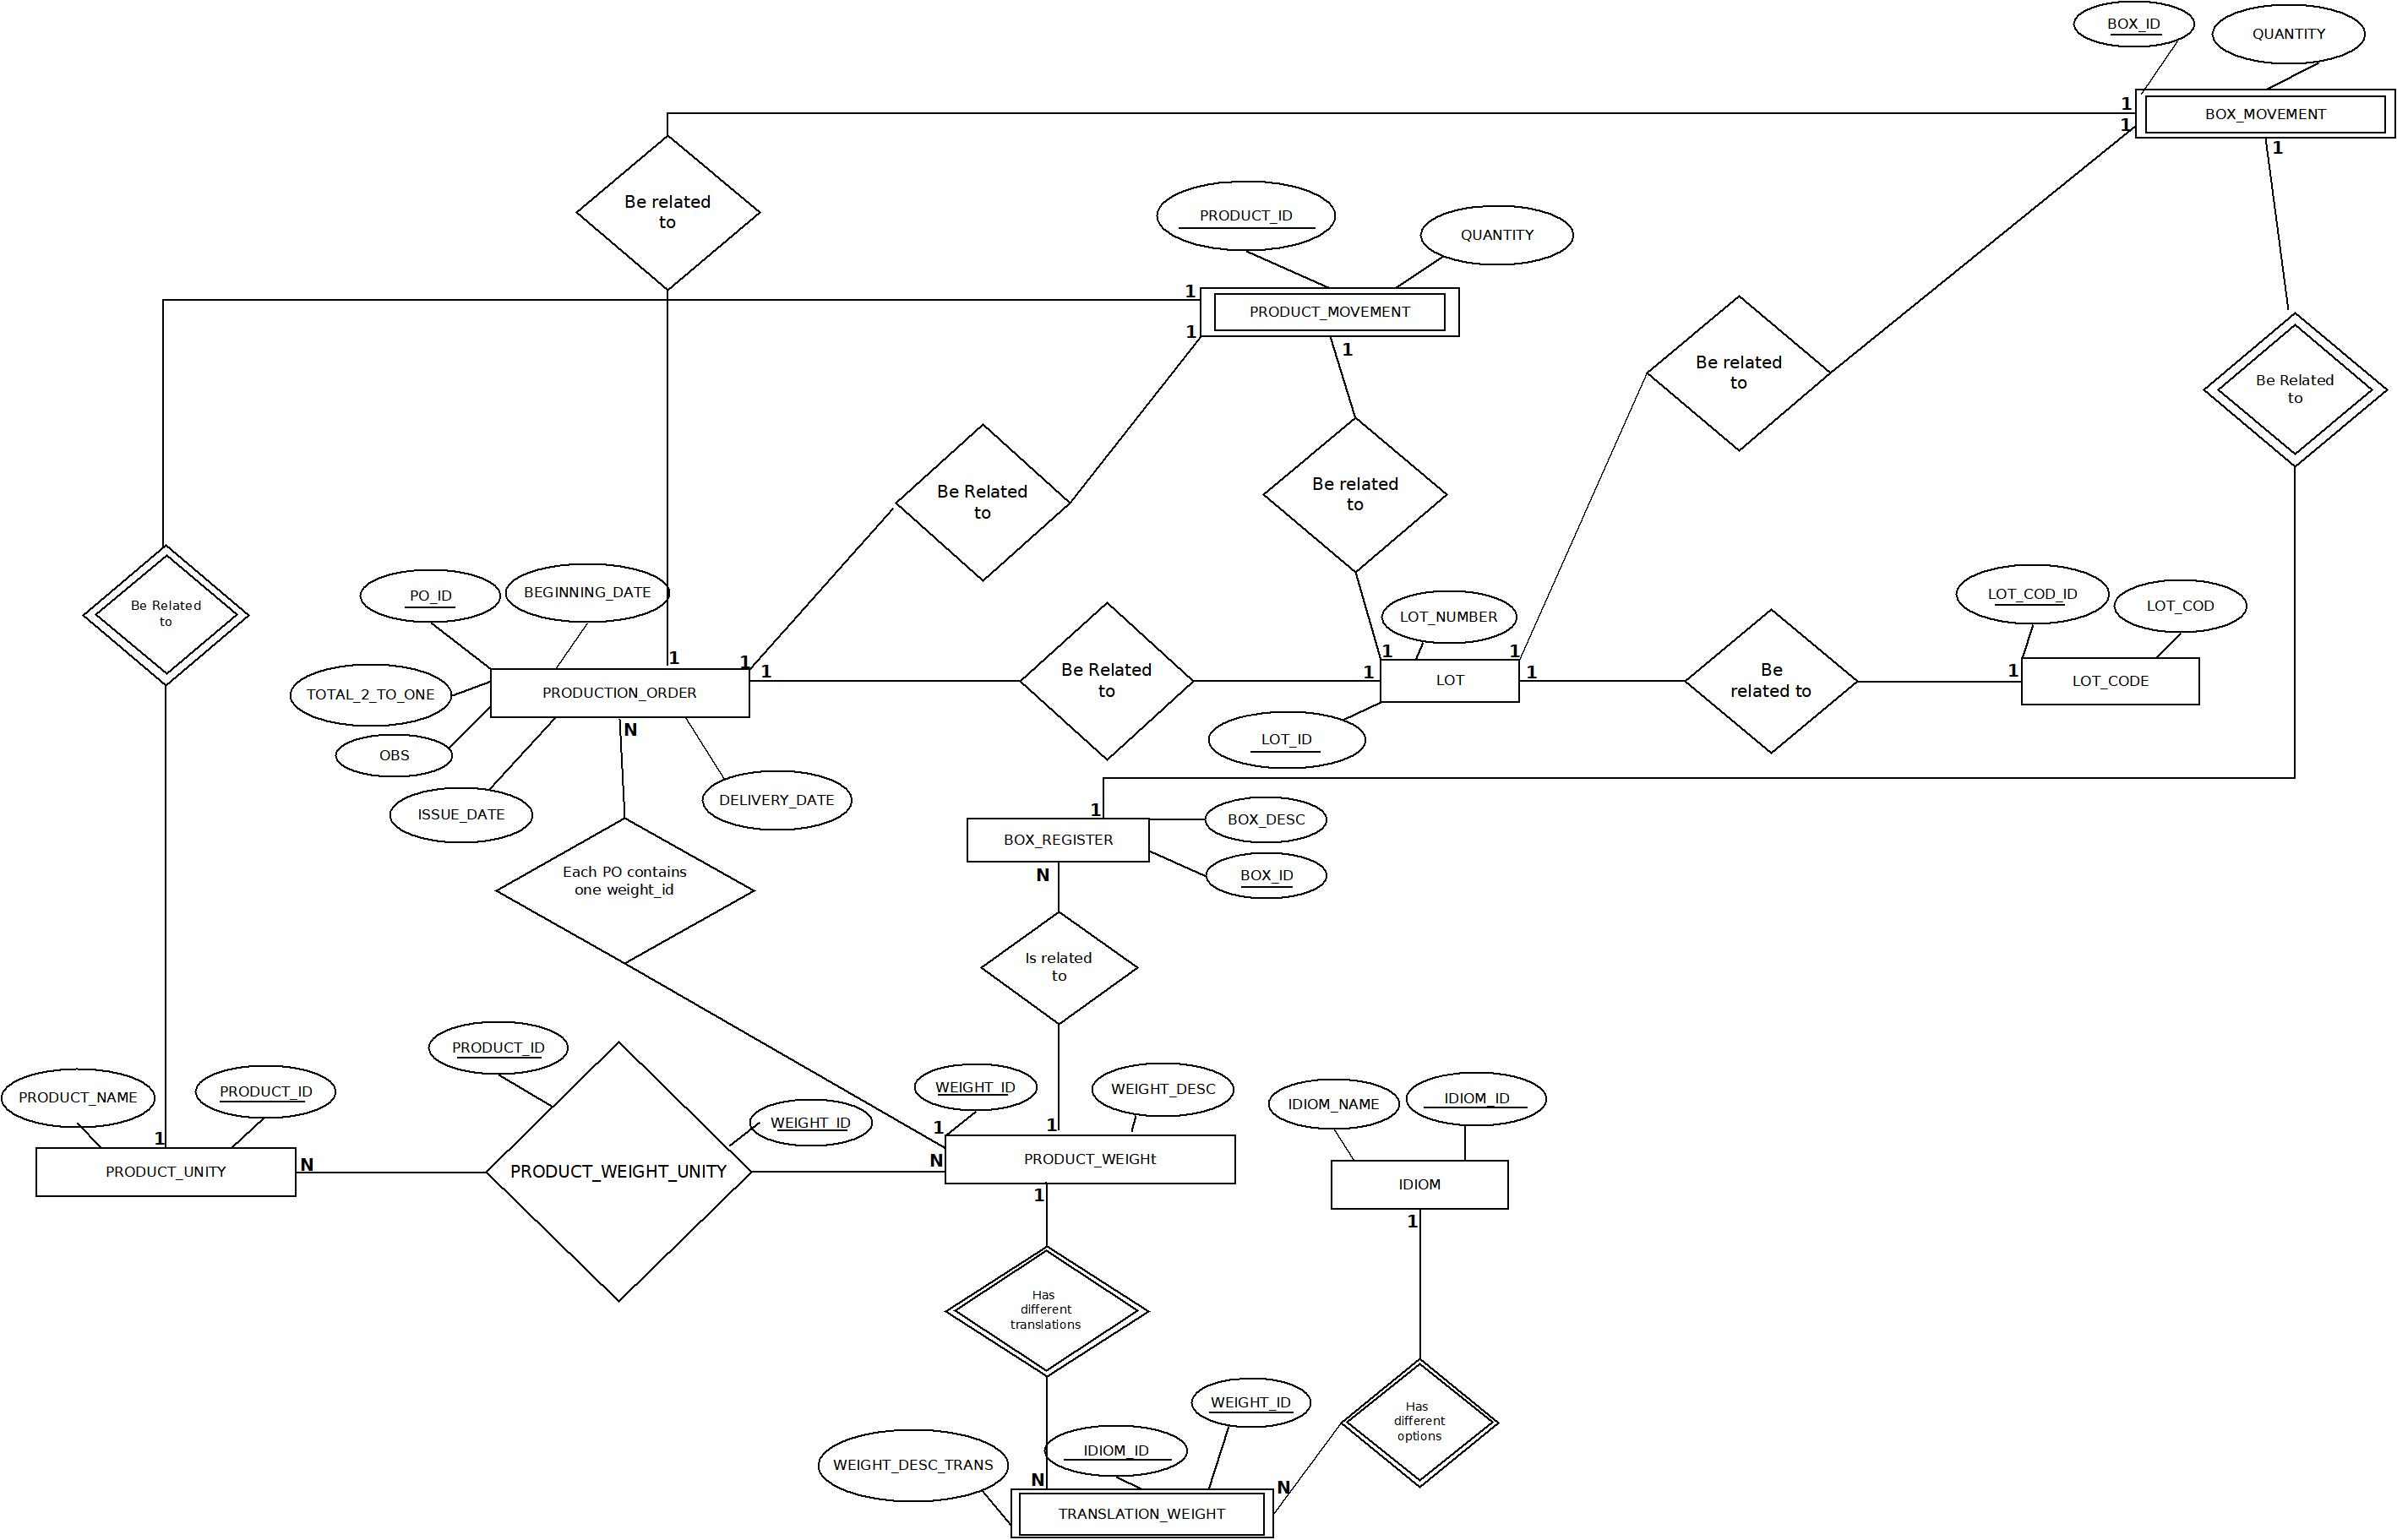
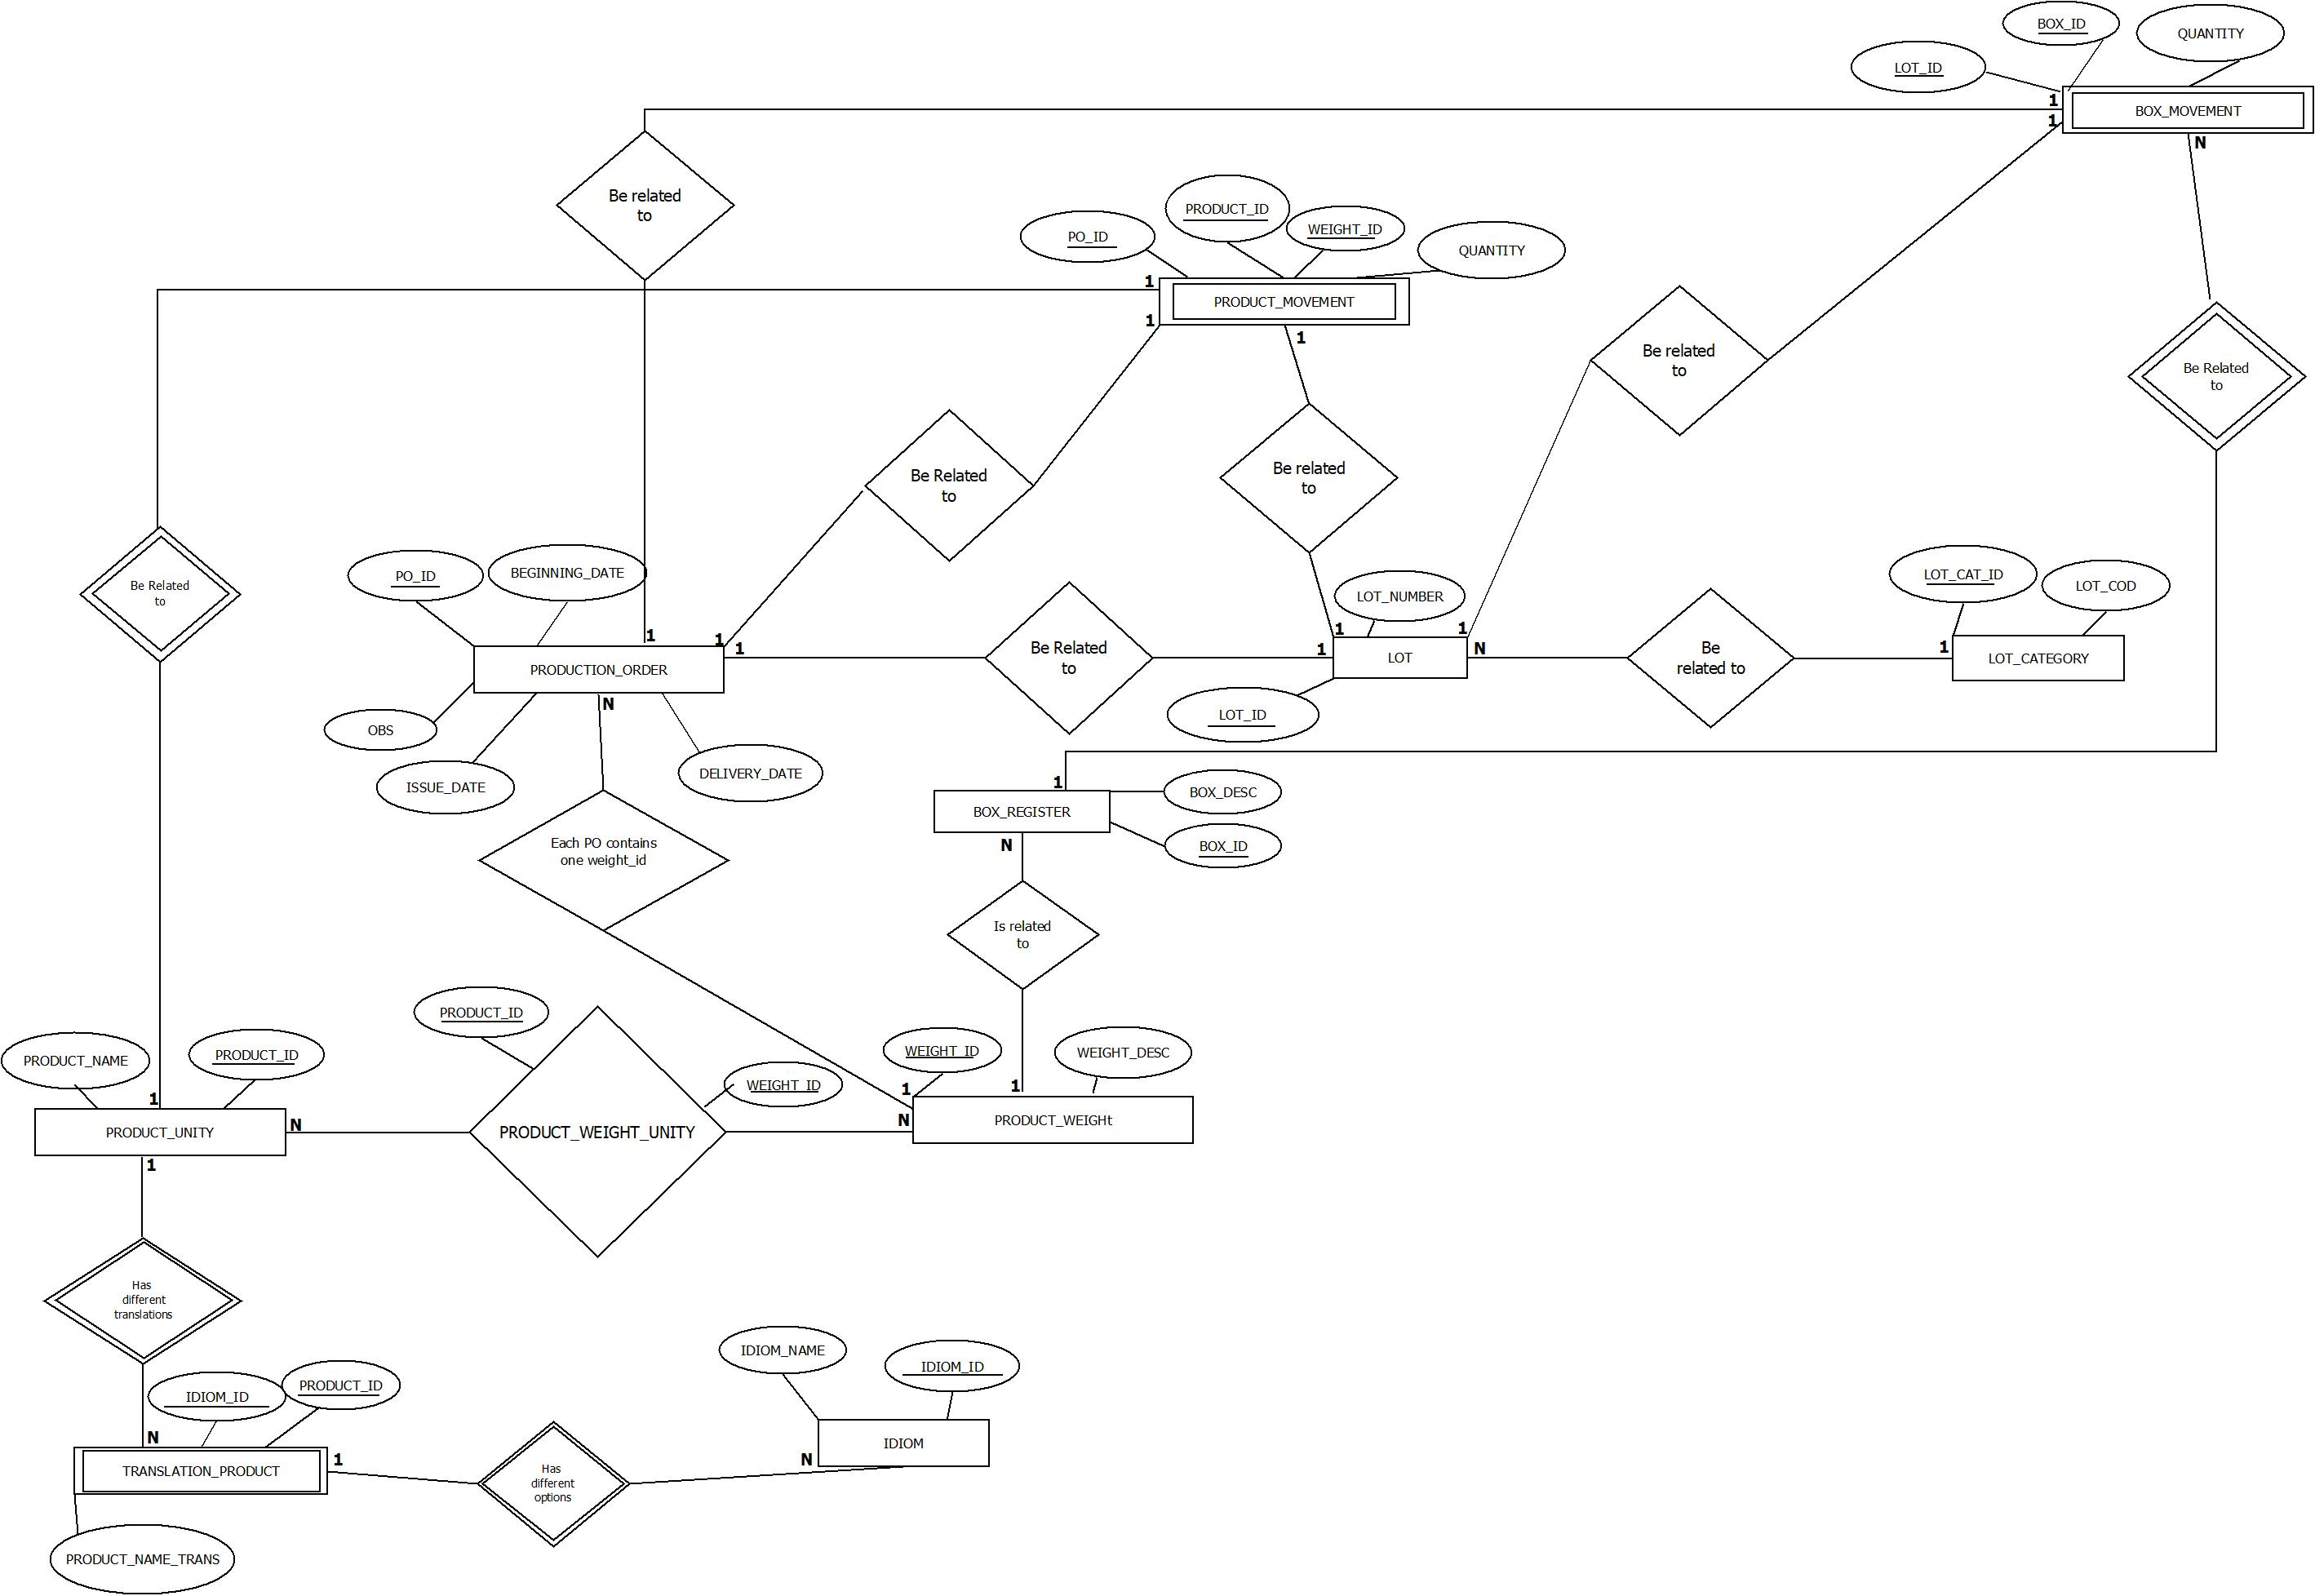
Readme update

diff --git a/readme.md b/readme.md
@@ -4,7 +4,6 @@
 <h1 id = "projectDescription" align="center">Production Order Data Base</h1>
 <p>This project reproduce what already happens in the company that I currently work for. I realized that some sheets that I have to deal with are basically a database - You can even identify the primary and foreign keys playing their roles. I decided to build a low-scale database inspired by this process that contains the same data presented in the sheets and the relationships between the tables. </p>
 
-
 ## Summary
 
 <ul>
@@ -25,11 +24,10 @@
 <p>The database design is based on the relationships between the entities involved in the production order workflow. Since the production order itself is not organized as a database, it was necessary to identify all the entities related to the workflow and ensure that the structure has proper connections to better represent the business rules and preserve cohesion.</p>
 
 <p>The following image represents the Entity Relationship Diagram (ERD) of the structure:</p>
-<img src="images/erd.jpeg" style-width: 100%; height: auto;>
+<img src="images/erd.jpeg" style-width: 100%; height: auto>
 
 <p>The following model represents the Entity Relationship Model (ERM):
-    
-    PRODUCTION_ORDER(Po_id[PK], Issue_Date, Beginning_date, Delivery_date, Total_2_To_One, OBS, Lot_id[FK], Weight_id[FK])
+    PRODUCTION_ORDER(Po_id[PK], Issue_Date, Beginning_date, Delivery_date, OBS, Lot_id[FK])
 
     PRODUCT_UNITY(Product_id[PK], product_name) 
 
@@ -37,19 +35,19 @@
 
     PRODUCT_WEIGHT(Weight_id[PK], Box_id[FK], Weight_desc)
 
-    TRANSLATION_WEIGHT(Weight_id[PK and FK], Idiom_id[PK and FK], Weight_desc_trans)
+    TRANSLATION_PRODUCT(PRODUCT_id[PK and FK], Idiom_id[PK and FK], product_name_trans)
 
     IDIOM(Idiom_id[PK], Idiom_name)
 
     BOX_REGISTER(Box_id[PK], Box_desc) 	
 
-    LOT(Lot_id[PK], Lot_cod_id[FK], Lot_number) 
+    LOT(Lot_id[PK], Lot_category_id[FK], Lot_number) 
 
-    LOT_CODE(Lot_cod_id[PK], Lot_cod)
-    
-    BOX_MOVEMENT(Box_id[PK AND FK], Po_id[FK], lot_id[FK], Quantity)
+    LOT_CATEGORY(Lot_category_id[PK], Lot_cod)
 
-    PRODUCT_MOVEMENT(Product_id[PK], Lot_id[FK], Quantity)
+    BOX_MOVEMENT(Box_id[PK AND FK], lot_id[PK AND FK], Quantity)
+
+    PRODUCT_MOVEMENT(Product_id[PK and FK], Weight_id[PK and FK], Lot_id[PK AND FK], Quantity)
  </p>
  <h3 id="relationships"> Critical relationships</h3>
  <p>As I mentioned earlier, the sheets were not organized as a database, which means that there is redundant  information. It was necessary to identify the entities and ensure that at least the third normal form (3NF) was applied.</p>
@@ -61,46 +59,45 @@
 
     PRODUCT_WEIGHT_UNITY(Product_id[PK and FK], Weight_id[PK and FK]) 
 
-    PRODUCT_WEIGHT(Weight_id[PK] ,Box_id[FK], Weight_desc)   
+    PRODUCT_WEIGHT(Weight_id[PK], Box_id[FK], Weight_desc) 
+
 The table PRODUCT_UNITY is responsible for storing all the types of candy that the factory manufactured. The PRODUCT_WEIGHT is reponsible to associating one product (or a collection of products) with its respective packaging.  Since, one product - or more than one - can be associated with multiple packaging options - and multiple packaging options also can be associated with more than one product, it was necessary to create a associative table (PRODUCT_WEIGHT_UNITY) to ensure that all combinations are possible. 
 <br>
 <br>
 2.[PRODUCT_WEIGHT] 1:N [BOX_REGISTER]
 
-    PRODUCT_WEIGHT(Weight_id[PK] ,Box_id[FK], Weight_desc)
+    PRODUCT_WEIGHT(Weight_id[PK], Box_id[FK], Weight_desc)
 
-    BOX_REGISTER(Box_id[PK], Box_desc) 	
+    BOX_REGISTER(Box_id[PK], Box_desc) 
+
 The PRODUCT_WEIGHT is responsible for associating products with their respective packaging. Since the same packaging can be related to mutiple "weight_id" and each "weight_id" can only be associated with one packaging, the primary key of the BOX_REGISTER table is referenced in the PRODUCT_WEIGHT table as foreign key.
 <br>
 <br>
-3.[LOT] 1:1 [LOT_CODE]
+3.[LOT] N:1 [LOT_CATEGORY]
 
-    LOT(Lot_id[PK], Lot_number[PK],  Lot_cod_id[FK]) 
+    LOT(Lot_id[PK], Lot_number[PK], Lot_category_id[FK]) 
 
-    LOT_CODE(Lot_cod_id[PK], Lot_cod)
+    LOT_CATEGORY(Lot_category_id[PK], Lot_cod)
     
-Products are organized into categories and the LOT table reflects this rule. The LOT_CODE table is responsible for storing these categories. Since each "Lot_id" can belong to only one category the primary key of the LOT_CODE table is referenced in the LOT table as a foreign key. 
+Products are organized into categories and the LOT table reflects this rule. The LOT_CATEGORY table is responsible for storing these categories. Since each "Lot_id" can belong to only one category the primary key of the LOT_CATEGORY table is referenced in the LOT table as a foreign key. 
 <br><br>
 4.[PRODUCT_UNITY] 1:1 [PRODUCT_MOVEMENT] 1:1 [LOT] 1:1 [PRODUCTION_ORDER]
    
     PRODUCT_UNITY(Product_id[PK], product_name)
 
-    PRODUCT_MOVEMENT(Product_id[PK], Lot_id[FK], Quantity)
+    PRODUCT_MOVEMENT(Product_id[PK AND FK], Lot_id[PK AND FK], Quantity)
 
     LOT(Lot_id[PK], Lot_cod_id[FK], Lot_number) 
 
-    PRODUCTION_ORDER(Po_id[PK], Issue_Date, Beginning_date, Delivery_date, Total_2_To_One, OBS, Lot_id[FK], Weight_id[FK])
+    PRODUCTION_ORDER(Po_id[PK], Issue_Date, Beginning_date, Delivery_date, OBS, Lot_id[FK])
+
 The PRODUCT_MOVEMENT table is responsible for storing all movements of a product. This table is a weak entity, meaning it requires foreign keys as part of its primary key <br><br>
 A production order and a specific product/products share the same lot. Therefore, the connection between PRODUCT_MOVEMENT and PRODUCTION_ORDER is through the primary key of the LOT table.
 <br><br>
-5.[BOX_MOVEMENT] 1:1 [PRODUCTION_ORDER]
 
-    BOX_MOVEMENT(Box_id[PK AND FK],Po_id[FK], lot_id[FK], Quantity)
-
-    PRODUCTION_ORDER(Po_id[PK], Issue_Date, Beginning_date, Delivery_date, Total_2_To_One, OBS, Lot_id[FK], Weight_id[FK])
-Since a specific box does not share the same lot with a production order, the connection between these tables is through the primary key of the PRODUCTION_ORDER table as a foreign key in the BOX_MOVEMENT table.<br><br>
 <h2 id="Technologies">Technologies Used</h2>
 <ul>
 <li>SQL Server Management Studio 20.2: Used for designing, querying, and managing the database.</li>
 <li>Dia: A diagramming tool used to model the Entity-Relationship Diagram (ERD).</li>
+<li>Docker: Used for containerization of the SQL Server Management Studio server.</li>
 </ul>